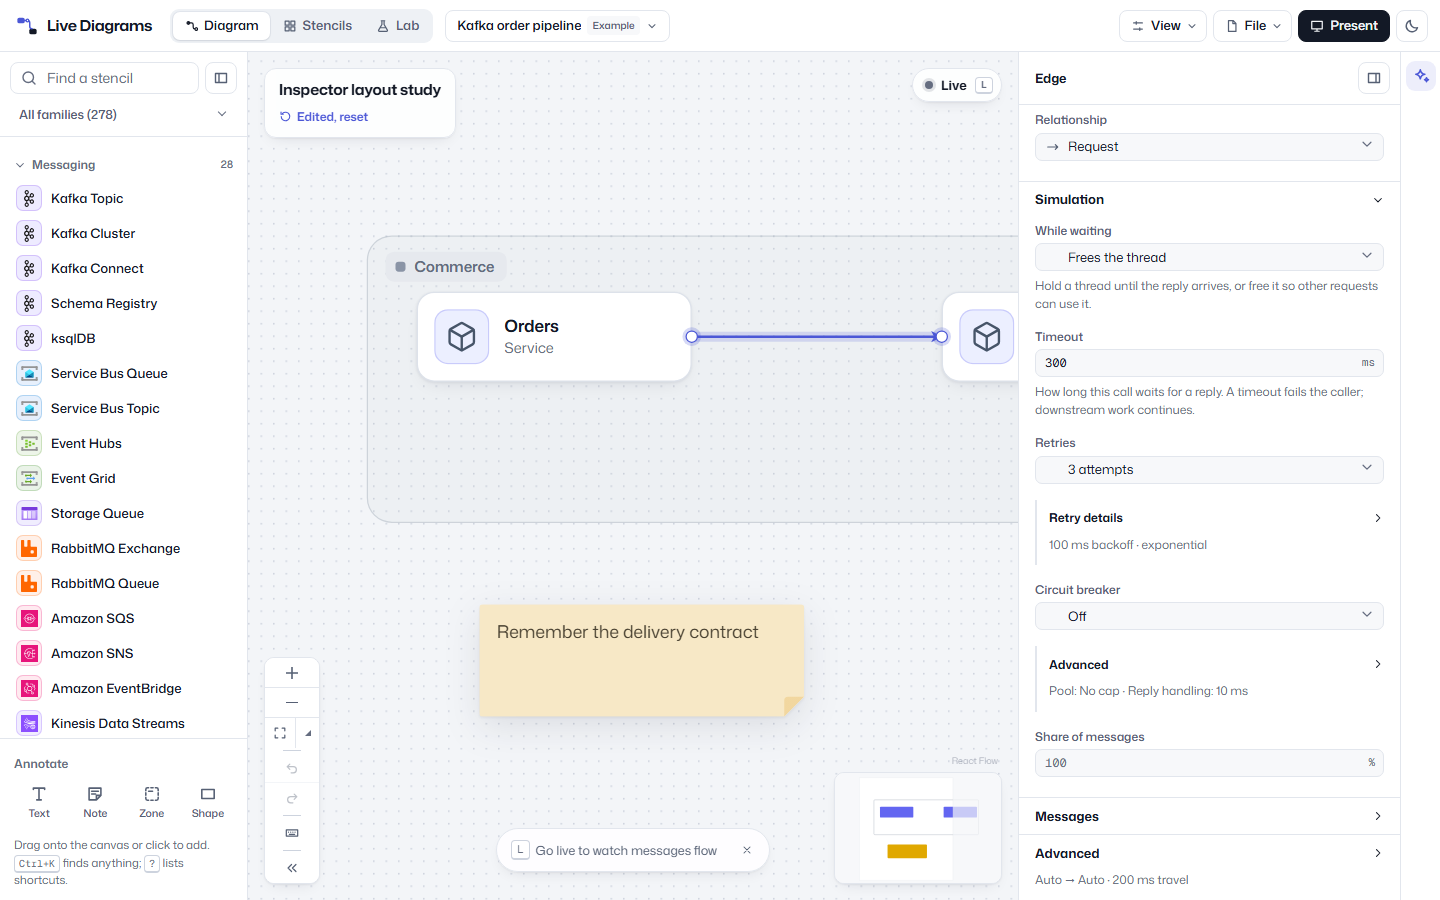
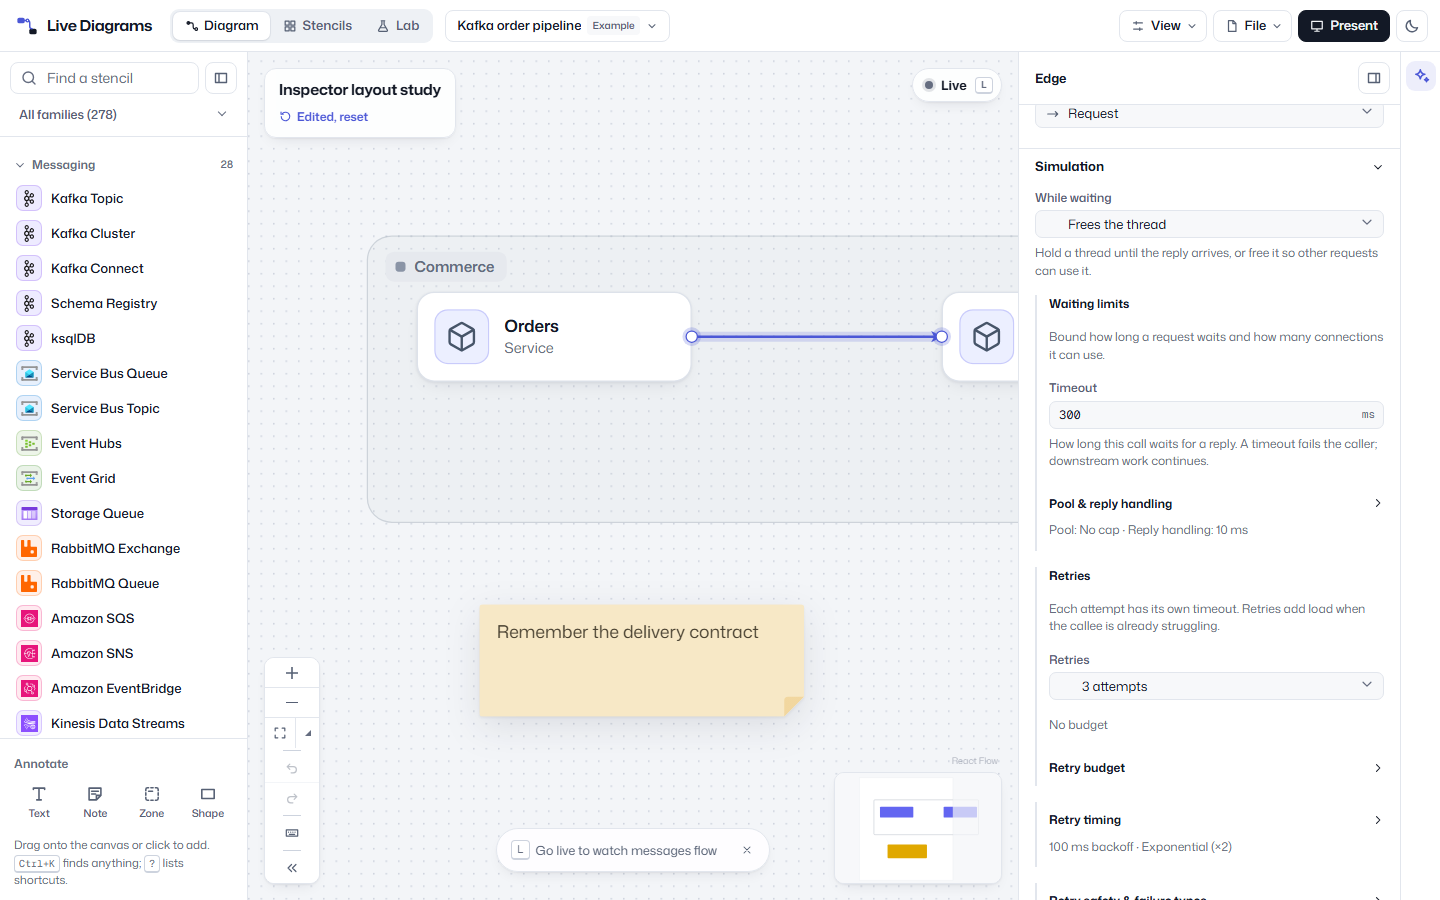
Inspector: integrate Request groups with shared layout

Changed region(s): [[0.7188, 0.1244, 0.9688, 0.8711], [0.7188, 0.9022, 0.8438, 1.0]]

diff --git a/tests/e2e/inspector-layout.spec.ts b/tests/e2e/inspector-layout.spec.ts
@@ -91,17 +91,19 @@ test("node identity is usable while Simulation fields download", async ({ page }
 test("Simulation keeps 16px between complete fields, including their hints", async ({ page }) => {
   await open(page);
   await page.getByTestId("inspector-section-edge-simulation").click();
-  const wait = page.getByTestId("inspector-unit-wait");
+  await page.getByTestId("inspector-section-call-advanced").click();
+  const pool = page.getByTestId("inspector-unit-poolConnections");
+  const reply = page.getByTestId("inspector-unit-replyMs");
   const timeout = page.getByTestId("inspector-unit-deadlineMs");
-  await expect(timeout).toBeVisible();
+  await expect(reply).toBeVisible();
   await expect
     .poll(async () => {
-      const a = await rect(wait),
-        b = await rect(timeout);
+      const a = await rect(pool),
+        b = await rect(reply);
       return b.y - a.y - a.height;
     })
     .toBe(16);
-  await expect(wait.getByTestId("inspector-hint-wait")).toBeVisible();
+  await expect(pool.getByTestId("inspector-hint-poolConnections")).toBeVisible();
   await expect(timeout.getByTestId("inspector-hint-deadlineMs")).toBeVisible();
   await expect(page.getByTestId("inspector-field-deadlineMs")).toHaveAccessibleName("Timeout ms");
   await expect(page.getByTestId("inspector-field-deadlineMs")).toHaveAccessibleDescription(
@@ -136,6 +138,7 @@ for (const width of [1440, 1000]) {
   test(`short fields ${width === 1440 ? "pair" : "stack"} at ${width}px`, async ({ page }) => {
     await open(page, "edge-call", width);
     await page.getByTestId("inspector-section-edge-simulation").click();
+    await expect(page.getByTestId("inspector-summary-retry-details")).toHaveText("100 ms backoff · Exponential (×2)");
     await page.getByTestId("inspector-section-retry-details").click();
     const backoff = page.getByTestId("inspector-unit-retry-backoff");
     const growth = page.getByTestId("inspector-unit-retry-growth");
@@ -149,6 +152,7 @@ for (const width of [1440, 1000]) {
       expect(b.x).toBe(a.x);
       expect(b.y - a.y - a.height).toBe(16);
     }
+    await page.getByTestId("inspector-section-retry-safety").click();
     const fieldset = page.getByTestId("inspector-field-retry-timeout").evaluate((el) => {
       const fieldset = el.closest("fieldset");
       return {

diff --git a/src/canvas/inspector/RetryFields.tsx b/src/canvas/inspector/RetryFields.tsx
@@ -59,14 +59,6 @@ export function RetryFields({
               id="retry-budget-details"
               title={t("resilience.budget")}
               description={t("resilience.budgetHint")}
-              summary={
-                retry.budget
-                  ? t("resilience.extraCallsCapped", {
-                      percent: retry.budget.percent,
-                      minimum: retry.budget.minPerSec ?? 10,
-                    })
-                  : t("resilience.noBudget")
-              }
             >
               <label className="insp-check">
                 <input
@@ -122,7 +114,10 @@ export function RetryFields({
             id="retry-details"
             title={t("resilience.retryTiming")}
             description={t("resilience.retryTimingHint")}
-            summary={t("workspaceInspector.retrySummary", { backoff: retry.backoffMs, growth: retry.strategy })}
+            summary={t("workspaceInspector.retrySummary", {
+              backoff: retry.backoffMs,
+              growth: retry.strategy === "fixed" ? t("resilience.fixed") : t("resilience.exponential"),
+            })}
           >
             {origin}
             <PairedFields testId="inspector-retry-pairs">

diff --git a/tests/e2e/requests-wait-ux.spec.ts b/tests/e2e/requests-wait-ux.spec.ts
@@ -55,6 +55,10 @@ test("call fields take the first keyboard pass while planning downloads, with st
     await expect(pool).toBeFocused();
     await expect(page.getByTestId("inspector-hint-poolConnections")).toBeVisible();
     await expect.poll(() => requested).toBe(true);
+    // The roomier Inspector needs scrolling to reach Appearance & routing. Put that click target in view before
+    // measuring, so navigation scroll is separate from the exact planner-arrival position check below.
+    await page.getByTestId("inspector-section-edge-advanced").scrollIntoViewIfNeeded();
+    await expect(pool).toBeFocused();
     const before = await pool.boundingBox();
     expect(before).not.toBeNull();
     expect(await pool.evaluate((el) => getComputedStyle(el).borderStyle)).toBe("solid");

diff --git a/src/canvas/inspector/Layout.tsx b/src/canvas/inspector/Layout.tsx
@@ -1,4 +1,4 @@
-import type { ReactNode, Ref } from "react";
+import type { HTMLAttributes, ReactNode, Ref } from "react";
 import "../../styles/inspector-layout.css";
 
 /** Short fields keep their DOM / keyboard order, and stack below a 320px sheet. */
@@ -26,14 +26,15 @@ export function Subgroup({
   children,
   ref,
   testId,
+  ...semantics
 }: {
   title?: string;
   children: ReactNode;
   ref?: Ref<HTMLDivElement>;
   testId?: string;
-}) {
+} & Pick<HTMLAttributes<HTMLDivElement>, "role" | "aria-labelledby" | "aria-describedby">) {
   return (
-    <div className="insp-subgroup" ref={ref} data-testid={testId}>
+    <div {...semantics} className="insp-subgroup" ref={ref} data-testid={testId}>
       {title && <h4>{title}</h4>}
       {children}
     </div>

diff --git a/src/canvas/inspector/RequestGroup.tsx b/src/canvas/inspector/RequestGroup.tsx
@@ -1,5 +1,5 @@
-import "./RequestGroup.css";
 import { useId, type ReactNode } from "react";
+import { Subgroup } from "./Layout";
 
 /** Group descriptions remain visible and are announced when its controls are reached. */
 export function RequestGroup({
@@ -17,10 +17,9 @@ export function RequestGroup({
 }) {
   const id = useId();
   return (
-    <div
-      className="insp-request-group"
+    <Subgroup
       role="group"
-      data-testid={`inspector-group-${name}`}
+      testId={`inspector-group-${name}`}
       aria-labelledby={`${id}-name`}
       aria-describedby={`${id}-hint`}
     >
@@ -30,6 +29,6 @@ export function RequestGroup({
         {description}
       </p>
       {children}
-    </div>
+    </Subgroup>
   );
 }

diff --git a/docs/design-review/2026-10-23-inspector-layout.md b/docs/design-review/2026-10-23-inspector-layout.md
@@ -20,12 +20,12 @@ The designer review identified and the implementation corrected: missing first-l
 
 The new `inspector-layout.spec.ts` covers all representative node summaries, usable identity fields while Simulation downloads, measured 16 px complete-field gaps and 6 px hint gaps, live summary updates, paired/stacked layouts, semantic retry fieldsets, six light/dark axe cases, Arabic chevrons and long-string/narrow-fact overflow. The fixture is available as the Lab's Inspector layout preset.
 
-Three existing assertions intentionally follow the new structure; a fourth test gains a readiness precondition:
+Three existing assertions intentionally follow the new structure; a fourth test gains readiness and navigation preconditions:
 
 - `planning-p1.spec.ts`: the combined inline capacity/formula check now checks the same capacity and the exact separate formula value.
 - `inspector-live.spec.ts`: checks the exact Live title and the toggle's accessible name, which now includes the status chip placed before the right chevron.
 - `round3.test.ts`: expects the same final peer inside the new `strong` element; the indexed-lookup bound stays unchanged.
-- `requests-wait-ux.spec.ts`: waits for Request fields before pressing Tab while the planning download remains held; every focus and geometry assertion stays unchanged.
+- `requests-wait-ux.spec.ts`: waits for Request fields before pressing Tab while planning remains held. It puts the Appearance & routing click target in view before measuring, because the roomier panel now requires navigation scroll. The diagnostic showed a 69 px scroll on that click and no movement on planner arrival. All keyboard, border, export and exact full bounding-box assertions remain unchanged.
 
 The rhythm regression is verified against a production bundle with the field gap temporarily restored to 6 px, then the implementation is restored. Required Linux repeats, parity, static checks and bundle measurements are recorded in the delivery report.
 
@@ -42,3 +42,7 @@ No new global controls, control restyling, deeper indentation or forced field re
 ## Parity
 
 The sole intentional golden change is `node/i18n/catalogs.json`: 24 English messages, their namespace hashes and fallback accounting. No other output is intentionally changed.
+
+## Integration with current Request groups
+
+Sync retains master’s waiting-limit, retry-budget, retry-timing, retry-safety and breaker groups, their descriptions, controls, origins and keyboard order. Request groups now use the shared subgroup primitive. The rhythm case measures consecutive pool/reply fields inside Simulation because Waiting limits now separates the top-level wait and timeout fields. The fieldset case opens Retry safety before inspecting its choices. All 16 px/6 px and paired/stacked assertions stay unchanged.

diff --git a/docs/release-notes/2026-10-23-inspector-layout.md b/docs/release-notes/2026-10-23-inspector-layout.md
@@ -18,4 +18,4 @@ The complete local screenshot matrix is in `C:\Users\latch\bin\codex-tasks\inspe
 
 ## Output parity
 
-Only `tests/parity/goldens/node/i18n/catalogs.json` changes: the English catalog gains 24 `workspaceInspector` messages, increasing the catalog size from 2,898 to 2,922. The golden records the new namespace's per-language hash and fallback counts. Existing namespace hashes and all simulation, planning, export, layout and browser goldens are expected to remain unchanged. No translated catalogs were edited.
+Only `tests/parity/goldens/node/i18n/catalogs.json` changes: the English catalog gains 24 `workspaceInspector` messages, increasing the catalog size from 2,920 to 2,944. The golden records the new namespace's per-language hash and fallback counts. Existing namespace hashes and all simulation, planning, export, layout and browser goldens are expected to remain unchanged. No translated catalogs were edited.
